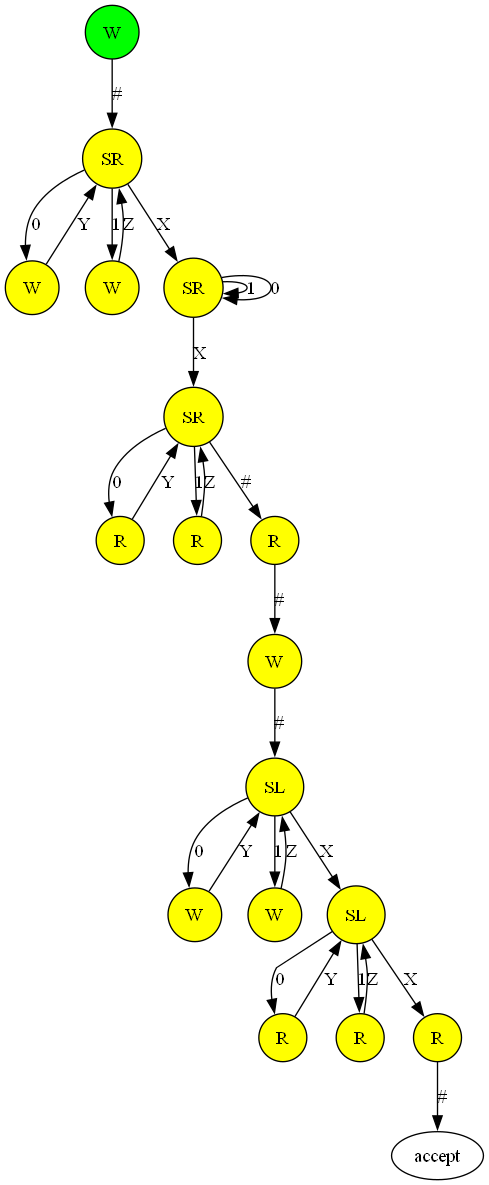
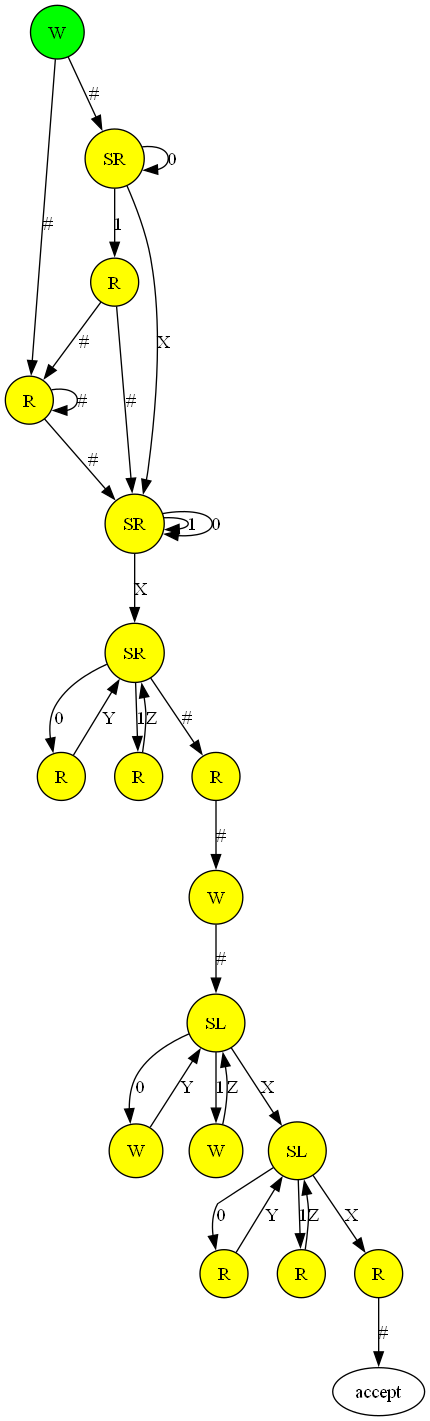
update test.py

diff --git a/test.py b/test.py
@@ -8,10 +8,10 @@ if __name__ == '__main__':
 .DATA
 STACK S1
 .LOGIC
-A] WRITE(S1) (#,B)
-B] SCAN RIGHT (0,C), (1,D), (X,E)
-C] WRITE(S1) (Y,B)
-D] WRITE(S1) (Z,B)
+A] WRITE(S1) (#,B), (#,C)
+B] READ(S1) (#,B), (#,E)
+C] SCAN RIGHT (0,C), (1,D), (X,E)
+D] READ(S1) (#,B), (#,E)
 E] SCAN RIGHT (1,E), (0,E), (X,F)
 F] SCAN RIGHT (0,G), (1,H), (#,I)
 G] READ(S1) (Y,F)
